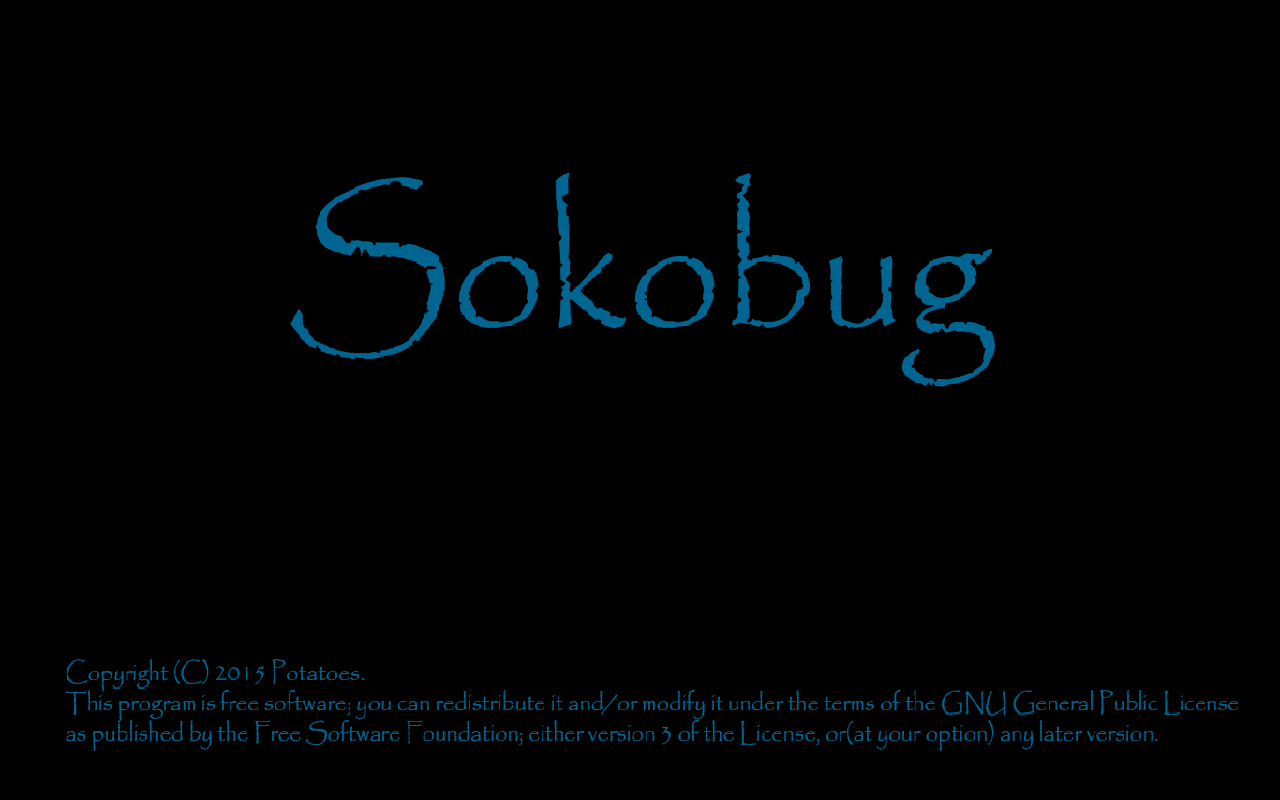
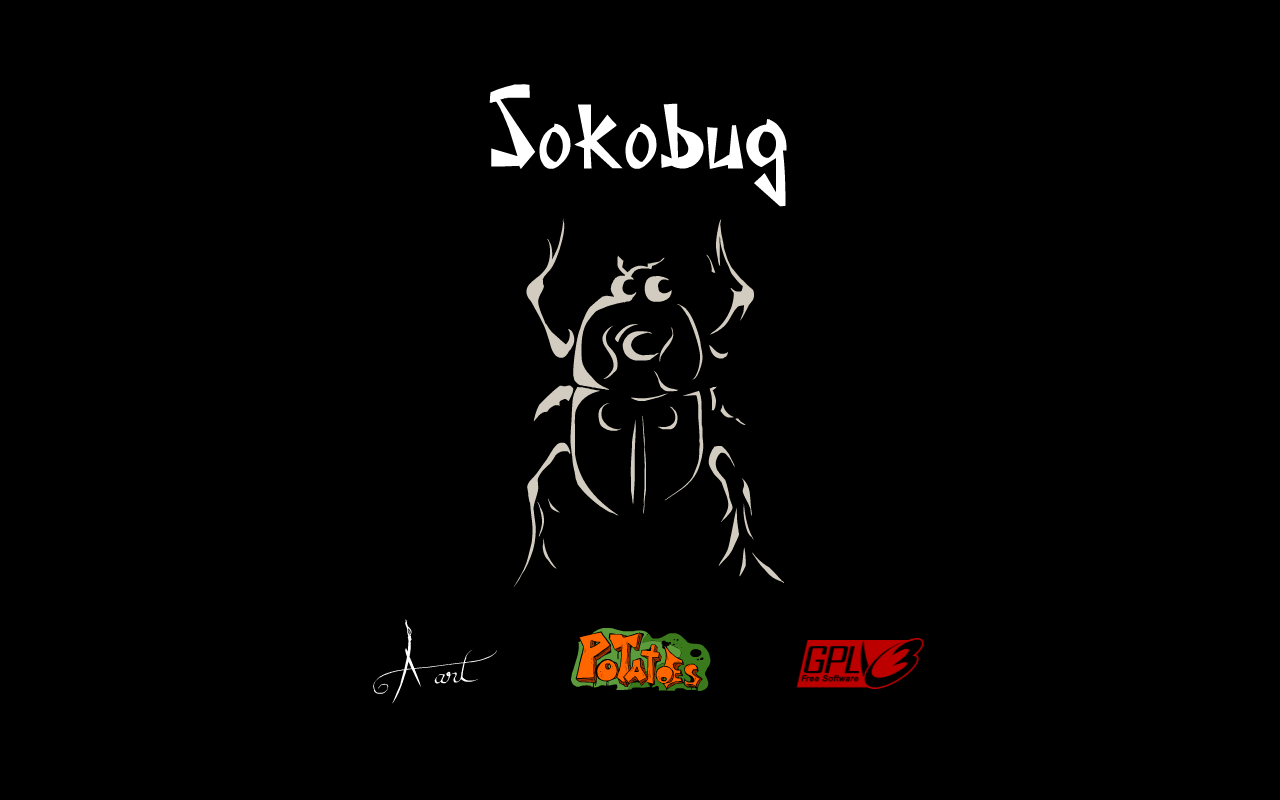
New graphics!

diff --git a/core/src/sokobug/screens/IngameScreen.java b/core/src/sokobug/screens/IngameScreen.java
@@ -39,7 +39,7 @@ public class IngameScreen implements Screen, InputProcessor {
 		game.assetManager.load("skins/uiskin.atlas", TextureAtlas.class);
 		game.assetManager.load("skins/uiskin.json", Skin.class, new SkinLoader.SkinParameter("skins/uiskin.atlas"));
 		
-		game.assetManager.load("ingame/bug.png", Texture.class);
+		game.assetManager.load("ingame/bug/bug0001.png", Texture.class);
 		game.assetManager.load("ingame/free.png", Texture.class);
 		game.assetManager.load("ingame/wall.png", Texture.class);
 		game.assetManager.load("ingame/spot.png", Texture.class);
@@ -86,7 +86,7 @@ public class IngameScreen implements Screen, InputProcessor {
 		game.assetManager.unload("skins/uiskin.atlas");
 		game.assetManager.unload("skins/uiskin.json");
 		
-		game.assetManager.unload("ingame/bug.png");
+		game.assetManager.unload("ingame/bug/bug0001.png");
 		game.assetManager.unload("ingame/free.png");
 		game.assetManager.unload("ingame/wall.png");
 		game.assetManager.unload("ingame/spot.png");

diff --git a/core/src/sokobug/domain/Level.java b/core/src/sokobug/domain/Level.java
@@ -37,9 +37,9 @@ public class Level implements InputProcessor{
 		labyrinthSprites.put("W", new Sprite(game.assetManager.get("ingame/wall.png", Texture.class)));
 		labyrinthSprites.put("S", new Sprite(game.assetManager.get("ingame/spot.png", Texture.class)));
 		labyrinthSprites.put("V", new Sprite(game.assetManager.get("ingame/vase.png", Texture.class)));
-		labyrinthSprites.put("B", new Sprite(game.assetManager.get("ingame/bug.png", Texture.class)));
+		labyrinthSprites.put("B", new Sprite(game.assetManager.get("ingame/bug/bug0001.png", Texture.class)));
 		
-		bug  = new MovingObject(game.assetManager.get("ingame/bug.png", Texture.class), LevelObject.TYPE_BUG);
+		bug  = new MovingObject(game.assetManager.get("ingame/bug/bug0001.png", Texture.class), LevelObject.TYPE_BUG);
 	}
 
 	public Vector2 getSize() {
